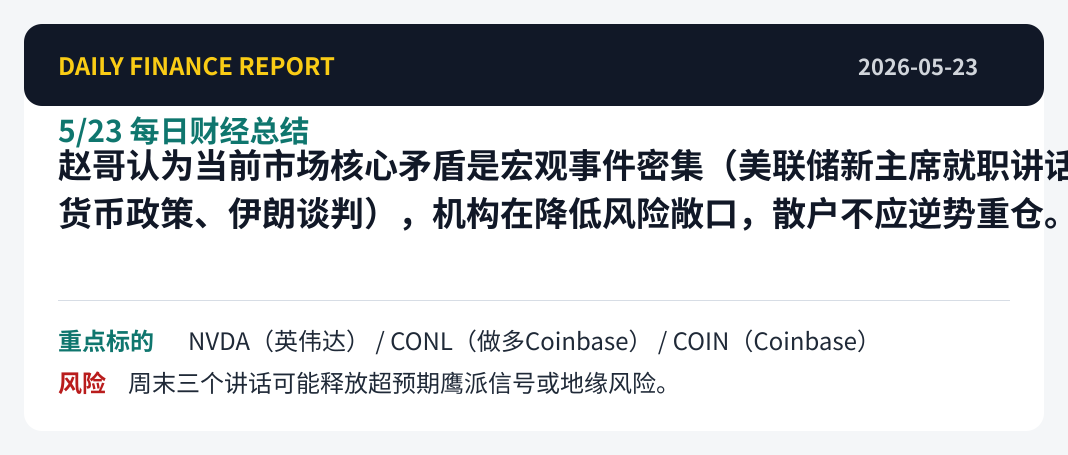
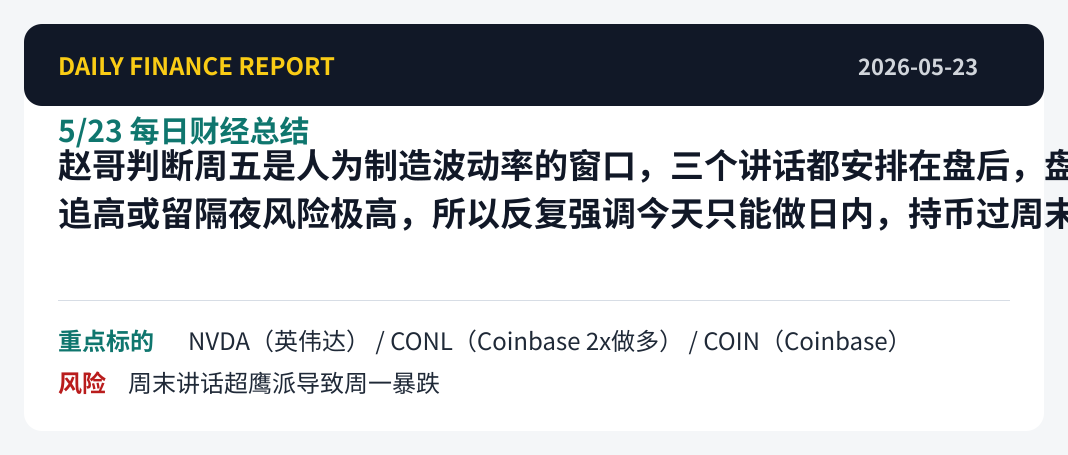
Auto daily publish: 2026-05-23 12:57:07 CST

diff --git a/docs/index.md b/docs/index.md
@@ -1,113 +1,114 @@
 # 财经聊天总结 - 每日定时总结（过去24小时）
 
-> 北京时间：2026-05-23 12:24:41 CST
+> 北京时间：2026-05-23 12:57:07 CST
 
-> 美西时间：2026-05-22 21:24:41 PST
+> 美西时间：2026-05-22 21:57:07 PST
 
-> 美东时间：2026-05-23 00:24:41 EST
+> 美东时间：2026-05-23 00:57:07 EST
 
 > 模型：deepseek-v4-flash
 
 ## 三句话总结
-- 赵哥认为，这周市场下跌是因为周末有三个重要讲话（美联储新主席沃什的货币政策倾向、周六的货币政策、周一伊朗谈判细节），大家都怕不确定性，所以提前卖出避险。
-- 昨晚确实先跌后涨，波动很大，但赵哥说现在急跌急涨会持续一段时间，周五涨跌都不能追，要等到所有讲话落地后才能判断方向。
-- 赵哥的意思是：别在周末前乱买，等周二（也就是所有讲话出完、市场消化后）再考虑低位加仓，尤其是CONL、COIN这些币相关的标的。
+- 赵哥（xiaozhaolucky）认为周末有美联储新主席沃什就职讲话、货币政策会议和伊朗谈判三个事件叠加，不确定性大，市场会人为调控波动率，所以主张持币过节、不隔夜，等周二消化消息后才考虑买入。专业术语解释：SPX=标普500指数，缺口=价格跳空后留下的未交易区间，做T=低买高卖降低成本，这里的讲话可以理解为美联储官员的公开政策表态。
+- 周五（5月22日）美股盘中波动剧烈，NVDA（英伟达）财报后连续下跌，盘中又有急涨；同时中国监管层对长桥、富途等中资券商发布新规，引发恐慌和券商开户潮。用户们大量讨论如何转开美资券商如嘉信、IB等，部分人趁机炒底富途（FUTU）赚了15-20%。
+- 赵哥明确告诉大家：今天（周五）只做日内，不要留单过周末；短线仓位出了，等周二最低点附近再考虑加仓；监管事件本质是罚款收费，有两年缓冲期不必过度恐慌，但最好开个美资券商备用。这意味着普通投资者应该空仓或极轻仓等待，不要赌周末消息，等周二明确后再动手。
 
 ## 核心结论
-- 周末多个宏观事件（美联储换帅讲话、货币政策会议、伊朗谈判）叠加，市场情绪偏谨慎，赵哥建议持币过节，等周二再操作。
-- 英伟达财报后连续调整，赵哥判断是杀call行为，周五后压力释放，但需等待低点确认。
-- 中资券商政策影响被定性为罚款而非封禁，有两年过渡期，不必恐慌，可配置美国本土券商（嘉信、盈透）作为备用。
+- 周末三个讲话（新主席就职、货币政策、伊朗谈判）叠加，市场人为调控波动率，赵哥建议持币过节、不隔夜，等周二低点再买
+- 监管事件（长桥、富途等被罚）本质是收费罚款，有两年缓冲期，不用恐慌，但应开美资券商备用
+- NVDA财报后继续杀call，预计先到110再跌100，短线已出
+- 重点关注IREN、CIFR等币圈第一梯队标的，等币市场转弯
 
 ## 市场状态判断
-- 市场处于事件密集窗口期（美联储换帅、货币政策、地缘谈判），波动率显著上升，多空博弈激烈。
-- 资金行为以避险为主，机构降低风险敞口，散户跟风难度大，短线交易窗口窄。
-- 流动性集中在宏观主题（政策、利率、地缘），而非个股基本面驱动。
+- 市场处于事件密集、人为调控波动率的状态，三个周末讲话（沃什就职、货币政策、伊朗谈判）分布在盘后和节日，增加不确定性
+- 资金环境偏向谨慎，赵哥要求持币过节、不隔夜，短线交易只做日内
+- 波动结构：急跌急涨模式将延续，几个节日临近加剧操纵性
 
 ### 核心理论
-- 赵哥框架的核心是“宏观事件主导节奏，散户应跟随时间周期而非价格运动”。
-- 他反复强调“三个讲话盘后”、“周末规避”，说明决策依据是时间点（讲话前后）而非单纯点位。
-- 操作上分两层：一是持币过节（防守），二是只有跌至周二最低附近才试错（机会）。
-- 对于标的（如CONL、COIN），他认为与币市场联动，需等币市转弯后第一梯队如IREN、CIFR先关注。
+- 周末讲话前规避不确定性：所有与讲话相关的波动都有人为调控，盘中追高或留隔夜会面临盘后消息冲击
+- 买点延迟到周二：周末消息消化后周二可能形成低点，是安全入场时机，错过比做错好
+- 监管是'养肥再杀'：A股和监管层的经典套路是默许行为、收罚款，有缓期，不必恐慌但需分散
+- 币圈联动：核心标的（IREN、CIFR）需等比特币市场转折信号才介入
 
 ### 证据链
-- 英伟达财报后连跌三天，赵哥解释为杀call，周五过掉就好了，验证了期权到期日的机械性抛压。
-- 中资券商政策：赵哥指出长桥是阿里、富途是腾讯、老虎是小米，国内资本控股，罚款是目的，历史上徐翔案例是模板。
-- 市场波动：周一周二跌是因周末慢跑式减持讲话，周五虽反弹但“涨就是英伟达财报前涨一样”暗示诱多。
-- 币市场：COIN低点186接近周二低点，赵哥说只一份如果周二有低点再加，表明当前并非重仓时机。
-- 用户对富途的操作：有人75买88出，有人等100未果，说明政策事件带来的波动有获利空间但难度大。
+- 赵哥多次强调'下周二在加'、'都是周二'，与'今天只能日内'形成对比
+- '三个讲话都是盘后'、'周末有讲话 涨的高了都会规避'直接说明风险来源
+- '不好的事情 会100的 先到110在跌100'给出了NVDA的具体路径
+- '等币市场转弯 来一次'说明时机依赖比特币走势
+- 用户对监管的恐慌和开户讨论佐证了市场情绪，但赵哥'有2年就先用着'平衡了过度担忧
 
 ### 交易框架拆解
-- **入场条件**：周二（所有讲话落地后）才是允许关注的时间点。；价格须跌至周二最低附近才考虑试错，否则观望。；币市场需出现转弯信号，第一梯队（IREN、CIFR）先关注。；日内操作仅限于盘中急跌后的反弹，且不能持仓过周末。
-- **持仓逻辑**：若已持有，短线仓位应在周五前出清。；中线仓位需等待周二低点确认后再考虑持有。；持币过节是核心，不因盘中反弹改变策略。
-- **退出条件**：若价格回升至周二最低上方，应停止买入并减仓。；出现超预期利空（如沃什鹰派讲话超预期、伊朗谈判破裂）需无条件止损。；短线止盈参考110附近（如英伟达）或10%涨幅（如富途）。
-- **仓位纪律**：当前仓位不超过3成，且以短线为主。；周二的低吸仓位控制在1-2成，若继续跌破再考虑加仓。；不追高，不重仓单一个股。
-- **风控规则**：禁止在讲话落地前开新仓。；禁止持有过周末（除非已严格止损）。；中资券商账户资金分散到美国本土券商。；不要用P图等欺诈手段开户，避免被关户。
-- **观察信号**：周六货币政策会议的具体表述（鹰鸽程度）。；周一伊朗谈判结果对油价和避险情绪的影响。；沃什盘后讲话中政策倾向（加息节奏、缩表态度）。；英伟达股价能否在105-108区间企稳，还是跌破100。；币市场（BTC）是否出现放量止跌信号。
-- **失效条件**：如果沃什讲话意外鸽派，市场可能提前反弹，则周二低点不复存在。；如果伊朗谈判达成超预期协议，油价暴跌引发风险资产全面反弹。；如果英伟达快速收复财报跌幅（>120），则杀call判断失效。；如果政策直接关闭中资券商出金通道（而非两年过渡），则恐慌加剧。
+- **入场条件**：周二出现最低点附近的价格；币圈标的需等比特币市场转弯信号；首笔只打一份，若周二有更低再加
+- **持仓逻辑**：短线已出，不持票过周末；中长线仓位需等周二低点确认后才考虑建立
+- **退出条件**：所有短线仓位在周五收盘前出清；若讲话超预期鹰派导致大跌，已空仓规避
+- **仓位纪律**：持币为主，轻仓或空仓过周末；首笔试探性仓位（一份），后续根据周二走势再加
+- **风控规则**：不隔夜，不追高，不赌周末消息；今天只做日内，时间和量能不足时不交易；避免使用中资券商大仓位，优先开美资券商
+- **观察信号**：周末沃什讲话的具体政策倾向（鹰/鸽）；周六货币政策会议结论；周一伊朗谈判细节；比特币是否出现转折信号；NVDA是否能先到110再跌100
+- **失效条件**：若周末讲话偏鸽、无意外利空，且周二不跌反涨，则框架失效；若比特币持续下跌、币圈标的无法形成底部，则回避相关标的；若监管政策突然升级（如直接禁止），则需要重新评估
 
 ## xiaozhaolucky
 ### 深度解读
-- 赵哥认为当前市场核心矛盾是宏观事件密集（美联储新主席就职讲话、货币政策、伊朗谈判），机构在降低风险敞口，散户不应逆势重仓。
-- 他强调“持币过节为主，除非跌周二最低附近”说明操作优先级是防守，只有极端低价才值得试错，普通反弹不参与。
-- “今天涨就是英伟达财报前涨一样”暗示当前反弹是诱多，缺乏持续性，应类比财报前最后的拉升然后砸盘。
-- “不好的事情 会100的 先到110在跌100”是一种周期内波动节奏：先拉高到110附近再杀到100以下，散户应避免追高。
-- 针对中资券商政策，赵哥解读为罚款逻辑而非真封禁，认为有两年过渡期可用，同时点明背后的政治动机（历史问题如徐翔）。
-- 对英伟达（NVDA）认为杀call是短期压制，周五过后压力释放，但具体介入需要等下周确认低点。
-- “三个讲话都是盘后”说明风险集中在非交易时段，所以盘中交易应以快进快出的日为主，不持仓过周末。
+- 赵哥判断周五是人为制造波动率的窗口，三个讲话都安排在盘后，盘中追高或留隔夜风险极高，所以反复强调今天只能做日内，持币过周末
+- 他反复说'下周二'才考虑买，说明他认为周末消息面消化后，周二才是安全入场点，买点需要打到周二最低附近，体现'宁愿错过不能做错'的风控思路
+- 他对监管事件的解读是'先养着收罚款'，暗示不必过度恐慌，但也要做好分散开户准备，尤其要开美资券商
+- 他关注的第一梯队是IREN、CIFR等币圈相关标的，且要求等币市场转弯再介入，说明他看重比特币走势对相关股票的联动性
+- 对NVDA的看法是财报后杀call是正常现象，周五过掉就好，但预期'先到110再跌100'，隐含短期先反弹再回调的节奏判断
+- 他认为周末讲话是'慢跑式减持'的延续，即官方通过周末释放消息来影响市场，投资者应主动规避不确定性
 
 ### 管理员重点标的
 | 标的 | 逻辑 | 触发条件 | 动作 | 风险 |
 | --- | --- | --- | --- | --- |
-| NVDA（英伟达） | 杀call调整，周五过掉好转，等周二低点 | 待确认 | 观察 | 未明确 |
-| CONL（做多Coinbase） | 周二低点附近可加仓，今天只做日内 | 待确认 | 观察 | 未明确 |
-| COIN（Coinbase） | 低点186接近周二低点，只一份，周二有低点再加 | 待确认 | 观察 | 未明确 |
-| IREN（Iris Energy） | 第一梯队关注，等币市转弯 | 待确认 | 观察 | 未明确 |
-| CIFR（Cipher Mining） | 第一梯队关注，等币市转弯 | 待确认 | 观察 | 未明确 |
-| NVDA（英伟达） | 财报后杀call是常见期权到期现象，周五即结束 | 周五收盘后或周二低点 | 暂时观望，等待周二低点 | 若突破前高则杀call无效 |
-| CONL（做多Coinbase） | 与币市场联动，等币市转弯 | 周二低点或币市转弯信号 | 下周二加仓 | 讲话不确定性导致再次下跌 |
-| COIN（Coinbase） | 接近周二低点但未完全到位 | 周二如果继续下跌 | 只一份试错 | 跌破前低则先止损 |
-| IREN（Iris Energy） | 币市企稳后优先关注 | 币市转弯 | 观察准备 | 币市持续下跌 |
-| CIFR（Cipher Mining） | 同上 | 同上 | 观察准备 | 同上 |
+| NVDA（英伟达） | 财报后杀call，短线已出，预计先到110再跌100，周五过掉风险 | 待确认 | 观察 | 未明确 |
+| CONL（Coinbase 2x做多） | 赵哥说下周二再买，今天只能日内，持币等周二低点 | 待确认 | 观察 | 未明确 |
+| COIN（Coinbase） | 赵哥回复只一份如果周二有低点再加 | 待确认 | 观察 | 未明确 |
+| IREN（Iren） | 赵哥说第一梯队也关注，等币市场转弯 | 待确认 | 观察 | 未明确 |
+| CIFR（Cipher Mining） | 赵哥说第一梯队也关注，等币市场转弯 | 待确认 | 观察 | 未明确 |
+| NVDA（英伟达） | 财报后通常杀call，周五过掉就好 | 周五收盘前出清 | 短线已出，等周二低点 | 若周末讲话鹰派可能加速下跌 |
+| CONL（Coinbase 2x做多） | 周末讲话不确定性大，今天不能留隔夜 | 周二最低点附近 | 持币等待，周二再买 | 若BTC继续下跌则可能达不到买入条件 |
+| COIN（Coinbase） | 等币市场转弯 | 周二低点+币市转弯 | 先买一份，有更低再加 | 币市持续下跌 |
+| IREN（Iren） | 与比特币联动 | 币市场转弯信号 | 关注 | 比特币走势不确定 |
+| CIFR（Cipher Mining） | 与比特币联动 | 币市场转弯信号 | 关注 | 比特币走势不确定 |
 
 ## 其他用户
 ### 用户观点提炼
-- 多数用户对中资券商政策感到恐慌，讨论开户备选（嘉信、盈立、IB），但普遍认为政策影响有限，长期仍需本土券商。
-- mrzhoulucky 表示富途、长桥、老虎分别是腾讯、阿里、小米控股，认为这是缺钱罚款的信号，并分享自己卖call、做空LITE的操作。
-- 部分用户参与短期事件（富途暴跌后反弹），有人赚15-20%止盈，也有用户犹豫不敢买。
-- 对英伟达和特斯拉有分歧：有人认为财报后持续调整，有人高抛低吸做T。
-- 关于美联储新主席Warsh，用户讨论偏鹰派，认为可能加息，但无一致结论。
+- 大量用户讨论监管新规，恐慌情绪蔓延，但多数认为有两年缓冲期、主要针对伪造文件，正常开户不用怕，推荐开嘉信、IB、盈立等美资或新加坡券商
+- 部分用户趁机炒底FUTU（富途），以75左右买入，88-94卖出，赚15-20%后止盈离场
+- 有用户指出FUTU和老虎期权出现天量看空持仓，怀疑有内幕交易，并讨论徐翔案例
+- 多位用户成功开立嘉信账户，反馈流程简单，但界面难用、有25000美元日内交易限制（即将取消）
+- 关于戴尔（DELL）暴涨15%、TSLL高开低走等标的表现，用户有讨论，但赵哥未专门点评
 
 ### 普通用户提到的标的
-- **FUTU（富途控股）**: 政策事件暴跌后反弹，用户有短炒
-- **TSLA（特斯拉）**: 高开低走，用户出清或做T
-- **DELL（戴尔）**: 用户持仓不动，涨势不错
-- **LITE（Lumentum）**: 用户做空（mrzhoulucky卖call）
-- **FUTU（富途控股）**: 用户讨论：75-88-94区间短炒，有人赚15%止盈
-- **TSLA（特斯拉）**: 高开低走，用户清仓或持有底仓，卖飞后后悔
-- **DELL（戴尔）**: 用户持有，涨势好，有人赚15%
-- **SOXS（做空半导体三倍ETF）**: 用户提及新低
-- **LITE（Lumentum）**: 用户mrzhoulucky卖call做空
+- **FUTU（富途控股）**: 用户讨论监管事件，有天量看空期权，部分用户75买入88-94止盈
+- **TSLA（特斯拉）**: 用户讨论TSLL高开低走，部分人卖飞
+- **DELL（戴尔）**: 用户提到暴涨15个点
+- **LITE（Lumentum）**: 用户提到做空LITE（做空老馒头）
+- **FUTU（富途控股）**: 监管事件核心标的，用户讨论内幕期权，部分人75买入88-94止盈，也有用户未出等100
+- **TSLA（特斯拉）**: 用户讨论TSLL高开低走，15.19卖出，16.15清仓等
+- **DELL（戴尔）**: 用户提到暴涨15个点，股价135
+- **SOXS（半导体3x做空）**: 有新低，用户讨论
+- **HOOD（Robinhood）**: 用户讨论股价73.18
+- **BBAE（BBAE）**: 用户讨论开户，入金麻烦
+- **AMD（超微半导体）**: 用户说像疯狗一样涨
 
 ## 市场主线
-- 宏观事件驱动：美联储新主席Warsh就职讲话+货币政策会议+伊朗谈判，不确定性高，市场以规避风险为主。
-- 指数层面：纳指盘中反弹但缺乏持续性，急跌急涨特征明显，量能不足以支撑趋势。
-- 板块分化：科技股（NVDA）财报后杀call，半导体（AMD）走弱；中概券商（FUTU）受政策消息暴跌后反弹，但短期波动剧烈。
+- 周五美股波动加剧，NVDA财报后连跌，盘中急涨急跌，受周末美联储新主席就职、货币政策及伊朗谈判多重事件影响
+- 币圈相关标的（CONL、COIN）波动较大，BTC出现预警信号，赵哥提醒等待币市场转弯
+- 中国监管新规冲击中资券商股（FUTU先跌后涨），市场预期罚款为主，有两年缓冲期
+- 亚洲市场当日反弹，但赵哥指出'今天亚洲反弹肯定要杀下'，暗示风险
 
 ## 期权与交易策略
-- mrzhoulucky 卖call LITE
-- 用户提到FUTU的期权实仓（call vs put数量）
+- 暂无明确记录。
 
 ## 事件与关键日期
-- 2026-05-22 晚 美联储新主席沃什就职典礼并盘后讲话
-- 2026-05-23 周六 美国货币政策会议
-- 2026-05-25 周一 美国阵亡将士纪念日，伊朗谈判细节公布
-- 2026-05-26 周二 管理员说的可操作时间点
-- 2026-06-04 嘉信取消25000美元日内交易限制
+- 5月22日（周五）美联储新主席沃什就职讲话（盘后）
+- 5月23日（周六）美联储货币政策会议
+- 5月25日（周一）美国节日，伊朗谈判细节讲话
+- 5月22日 中国监管层对长桥、富途、老虎等中资券商发布新规（限期整改/罚款）
+- 5月22日 NVDA财报后第三日，继续杀call
 
 ## 风险与观察点
-- 周末三个讲话可能释放超预期鹰派信号或地缘风险。
-- 若英伟达跌破100关口，则杀call后的支撑失效。
-- 中资券商政策可能在两年内升级为真正限制，需提前布局嘉信、IB等。
-- 日内追高容易被套，必须遵守持币过节纪律。
-- P图开户面临关户和法律风险。
+- 周末讲话超鹰派导致周一暴跌
+- 监管政策进一步升级，限制港卡入金或波及美资券商
+- 比特币持续下跌，币圈标的跌破关键支撑
+- NVDA未能守住100，加速下跌
 

diff --git a/docs/summaries/2026-05/2026-05-23-每日总结.md b/docs/summaries/2026-05/2026-05-23-每日总结.md
@@ -1,110 +1,111 @@
-# 2026-05-23 12:24:41 CST 总结 - 每日定时总结（过去24小时）
+# 2026-05-23 12:57:07 CST 总结 - 每日定时总结（过去24小时）
 
-> 美西时间：2026-05-22 21:24:41 PST
+> 美西时间：2026-05-22 21:57:07 PST
 
-> 美东时间：2026-05-23 00:24:41 EST
+> 美东时间：2026-05-23 00:57:07 EST
 
 > 模型：deepseek-v4-flash
 
 ## 三句话总结
-- 赵哥认为，这周市场下跌是因为周末有三个重要讲话（美联储新主席沃什的货币政策倾向、周六的货币政策、周一伊朗谈判细节），大家都怕不确定性，所以提前卖出避险。
-- 昨晚确实先跌后涨，波动很大，但赵哥说现在急跌急涨会持续一段时间，周五涨跌都不能追，要等到所有讲话落地后才能判断方向。
-- 赵哥的意思是：别在周末前乱买，等周二（也就是所有讲话出完、市场消化后）再考虑低位加仓，尤其是CONL、COIN这些币相关的标的。
+- 赵哥（xiaozhaolucky）认为周末有美联储新主席沃什就职讲话、货币政策会议和伊朗谈判三个事件叠加，不确定性大，市场会人为调控波动率，所以主张持币过节、不隔夜，等周二消化消息后才考虑买入。专业术语解释：SPX=标普500指数，缺口=价格跳空后留下的未交易区间，做T=低买高卖降低成本，这里的讲话可以理解为美联储官员的公开政策表态。
+- 周五（5月22日）美股盘中波动剧烈，NVDA（英伟达）财报后连续下跌，盘中又有急涨；同时中国监管层对长桥、富途等中资券商发布新规，引发恐慌和券商开户潮。用户们大量讨论如何转开美资券商如嘉信、IB等，部分人趁机炒底富途（FUTU）赚了15-20%。
+- 赵哥明确告诉大家：今天（周五）只做日内，不要留单过周末；短线仓位出了，等周二最低点附近再考虑加仓；监管事件本质是罚款收费，有两年缓冲期不必过度恐慌，但最好开个美资券商备用。这意味着普通投资者应该空仓或极轻仓等待，不要赌周末消息，等周二明确后再动手。
 
 ## 核心结论
-- 周末多个宏观事件（美联储换帅讲话、货币政策会议、伊朗谈判）叠加，市场情绪偏谨慎，赵哥建议持币过节，等周二再操作。
-- 英伟达财报后连续调整，赵哥判断是杀call行为，周五后压力释放，但需等待低点确认。
-- 中资券商政策影响被定性为罚款而非封禁，有两年过渡期，不必恐慌，可配置美国本土券商（嘉信、盈透）作为备用。
+- 周末三个讲话（新主席就职、货币政策、伊朗谈判）叠加，市场人为调控波动率，赵哥建议持币过节、不隔夜，等周二低点再买
+- 监管事件（长桥、富途等被罚）本质是收费罚款，有两年缓冲期，不用恐慌，但应开美资券商备用
+- NVDA财报后继续杀call，预计先到110再跌100，短线已出
+- 重点关注IREN、CIFR等币圈第一梯队标的，等币市场转弯
 
 ## 市场状态判断
-- 市场处于事件密集窗口期（美联储换帅、货币政策、地缘谈判），波动率显著上升，多空博弈激烈。
-- 资金行为以避险为主，机构降低风险敞口，散户跟风难度大，短线交易窗口窄。
-- 流动性集中在宏观主题（政策、利率、地缘），而非个股基本面驱动。
+- 市场处于事件密集、人为调控波动率的状态，三个周末讲话（沃什就职、货币政策、伊朗谈判）分布在盘后和节日，增加不确定性
+- 资金环境偏向谨慎，赵哥要求持币过节、不隔夜，短线交易只做日内
+- 波动结构：急跌急涨模式将延续，几个节日临近加剧操纵性
 
 ### 核心理论
-- 赵哥框架的核心是“宏观事件主导节奏，散户应跟随时间周期而非价格运动”。
-- 他反复强调“三个讲话盘后”、“周末规避”，说明决策依据是时间点（讲话前后）而非单纯点位。
-- 操作上分两层：一是持币过节（防守），二是只有跌至周二最低附近才试错（机会）。
-- 对于标的（如CONL、COIN），他认为与币市场联动，需等币市转弯后第一梯队如IREN、CIFR先关注。
+- 周末讲话前规避不确定性：所有与讲话相关的波动都有人为调控，盘中追高或留隔夜会面临盘后消息冲击
+- 买点延迟到周二：周末消息消化后周二可能形成低点，是安全入场时机，错过比做错好
+- 监管是'养肥再杀'：A股和监管层的经典套路是默许行为、收罚款，有缓期，不必恐慌但需分散
+- 币圈联动：核心标的（IREN、CIFR）需等比特币市场转折信号才介入
 
 ### 证据链
-- 英伟达财报后连跌三天，赵哥解释为杀call，周五过掉就好了，验证了期权到期日的机械性抛压。
-- 中资券商政策：赵哥指出长桥是阿里、富途是腾讯、老虎是小米，国内资本控股，罚款是目的，历史上徐翔案例是模板。
-- 市场波动：周一周二跌是因周末慢跑式减持讲话，周五虽反弹但“涨就是英伟达财报前涨一样”暗示诱多。
-- 币市场：COIN低点186接近周二低点，赵哥说只一份如果周二有低点再加，表明当前并非重仓时机。
-- 用户对富途的操作：有人75买88出，有人等100未果，说明政策事件带来的波动有获利空间但难度大。
+- 赵哥多次强调'下周二在加'、'都是周二'，与'今天只能日内'形成对比
+- '三个讲话都是盘后'、'周末有讲话 涨的高了都会规避'直接说明风险来源
+- '不好的事情 会100的 先到110在跌100'给出了NVDA的具体路径
+- '等币市场转弯 来一次'说明时机依赖比特币走势
+- 用户对监管的恐慌和开户讨论佐证了市场情绪，但赵哥'有2年就先用着'平衡了过度担忧
 
 ### 交易框架拆解
-- **入场条件**：周二（所有讲话落地后）才是允许关注的时间点。；价格须跌至周二最低附近才考虑试错，否则观望。；币市场需出现转弯信号，第一梯队（IREN、CIFR）先关注。；日内操作仅限于盘中急跌后的反弹，且不能持仓过周末。
-- **持仓逻辑**：若已持有，短线仓位应在周五前出清。；中线仓位需等待周二低点确认后再考虑持有。；持币过节是核心，不因盘中反弹改变策略。
-- **退出条件**：若价格回升至周二最低上方，应停止买入并减仓。；出现超预期利空（如沃什鹰派讲话超预期、伊朗谈判破裂）需无条件止损。；短线止盈参考110附近（如英伟达）或10%涨幅（如富途）。
-- **仓位纪律**：当前仓位不超过3成，且以短线为主。；周二的低吸仓位控制在1-2成，若继续跌破再考虑加仓。；不追高，不重仓单一个股。
-- **风控规则**：禁止在讲话落地前开新仓。；禁止持有过周末（除非已严格止损）。；中资券商账户资金分散到美国本土券商。；不要用P图等欺诈手段开户，避免被关户。
-- **观察信号**：周六货币政策会议的具体表述（鹰鸽程度）。；周一伊朗谈判结果对油价和避险情绪的影响。；沃什盘后讲话中政策倾向（加息节奏、缩表态度）。；英伟达股价能否在105-108区间企稳，还是跌破100。；币市场（BTC）是否出现放量止跌信号。
-- **失效条件**：如果沃什讲话意外鸽派，市场可能提前反弹，则周二低点不复存在。；如果伊朗谈判达成超预期协议，油价暴跌引发风险资产全面反弹。；如果英伟达快速收复财报跌幅（>120），则杀call判断失效。；如果政策直接关闭中资券商出金通道（而非两年过渡），则恐慌加剧。
+- **入场条件**：周二出现最低点附近的价格；币圈标的需等比特币市场转弯信号；首笔只打一份，若周二有更低再加
+- **持仓逻辑**：短线已出，不持票过周末；中长线仓位需等周二低点确认后才考虑建立
+- **退出条件**：所有短线仓位在周五收盘前出清；若讲话超预期鹰派导致大跌，已空仓规避
+- **仓位纪律**：持币为主，轻仓或空仓过周末；首笔试探性仓位（一份），后续根据周二走势再加
+- **风控规则**：不隔夜，不追高，不赌周末消息；今天只做日内，时间和量能不足时不交易；避免使用中资券商大仓位，优先开美资券商
+- **观察信号**：周末沃什讲话的具体政策倾向（鹰/鸽）；周六货币政策会议结论；周一伊朗谈判细节；比特币是否出现转折信号；NVDA是否能先到110再跌100
+- **失效条件**：若周末讲话偏鸽、无意外利空，且周二不跌反涨，则框架失效；若比特币持续下跌、币圈标的无法形成底部，则回避相关标的；若监管政策突然升级（如直接禁止），则需要重新评估
 
 ## xiaozhaolucky
 ### 深度解读
-- 赵哥认为当前市场核心矛盾是宏观事件密集（美联储新主席就职讲话、货币政策、伊朗谈判），机构在降低风险敞口，散户不应逆势重仓。
-- 他强调“持币过节为主，除非跌周二最低附近”说明操作优先级是防守，只有极端低价才值得试错，普通反弹不参与。
-- “今天涨就是英伟达财报前涨一样”暗示当前反弹是诱多，缺乏持续性，应类比财报前最后的拉升然后砸盘。
-- “不好的事情 会100的 先到110在跌100”是一种周期内波动节奏：先拉高到110附近再杀到100以下，散户应避免追高。
-- 针对中资券商政策，赵哥解读为罚款逻辑而非真封禁，认为有两年过渡期可用，同时点明背后的政治动机（历史问题如徐翔）。
-- 对英伟达（NVDA）认为杀call是短期压制，周五过后压力释放，但具体介入需要等下周确认低点。
-- “三个讲话都是盘后”说明风险集中在非交易时段，所以盘中交易应以快进快出的日为主，不持仓过周末。
+- 赵哥判断周五是人为制造波动率的窗口，三个讲话都安排在盘后，盘中追高或留隔夜风险极高，所以反复强调今天只能做日内，持币过周末
+- 他反复说'下周二'才考虑买，说明他认为周末消息面消化后，周二才是安全入场点，买点需要打到周二最低附近，体现'宁愿错过不能做错'的风控思路
+- 他对监管事件的解读是'先养着收罚款'，暗示不必过度恐慌，但也要做好分散开户准备，尤其要开美资券商
+- 他关注的第一梯队是IREN、CIFR等币圈相关标的，且要求等币市场转弯再介入，说明他看重比特币走势对相关股票的联动性
+- 对NVDA的看法是财报后杀call是正常现象，周五过掉就好，但预期'先到110再跌100'，隐含短期先反弹再回调的节奏判断
+- 他认为周末讲话是'慢跑式减持'的延续，即官方通过周末释放消息来影响市场，投资者应主动规避不确定性
 
 ### 管理员重点标的
 | 标的 | 逻辑 | 触发条件 | 动作 | 风险 |
 | --- | --- | --- | --- | --- |
-| NVDA（英伟达） | 杀call调整，周五过掉好转，等周二低点 | 待确认 | 观察 | 未明确 |
-| CONL（做多Coinbase） | 周二低点附近可加仓，今天只做日内 | 待确认 | 观察 | 未明确 |
-| COIN（Coinbase） | 低点186接近周二低点，只一份，周二有低点再加 | 待确认 | 观察 | 未明确 |
-| IREN（Iris Energy） | 第一梯队关注，等币市转弯 | 待确认 | 观察 | 未明确 |
-| CIFR（Cipher Mining） | 第一梯队关注，等币市转弯 | 待确认 | 观察 | 未明确 |
-| NVDA（英伟达） | 财报后杀call是常见期权到期现象，周五即结束 | 周五收盘后或周二低点 | 暂时观望，等待周二低点 | 若突破前高则杀call无效 |
-| CONL（做多Coinbase） | 与币市场联动，等币市转弯 | 周二低点或币市转弯信号 | 下周二加仓 | 讲话不确定性导致再次下跌 |
-| COIN（Coinbase） | 接近周二低点但未完全到位 | 周二如果继续下跌 | 只一份试错 | 跌破前低则先止损 |
-| IREN（Iris Energy） | 币市企稳后优先关注 | 币市转弯 | 观察准备 | 币市持续下跌 |
-| CIFR（Cipher Mining） | 同上 | 同上 | 观察准备 | 同上 |
+| NVDA（英伟达） | 财报后杀call，短线已出，预计先到110再跌100，周五过掉风险 | 待确认 | 观察 | 未明确 |
+| CONL（Coinbase 2x做多） | 赵哥说下周二再买，今天只能日内，持币等周二低点 | 待确认 | 观察 | 未明确 |
+| COIN（Coinbase） | 赵哥回复只一份如果周二有低点再加 | 待确认 | 观察 | 未明确 |
+| IREN（Iren） | 赵哥说第一梯队也关注，等币市场转弯 | 待确认 | 观察 | 未明确 |
+| CIFR（Cipher Mining） | 赵哥说第一梯队也关注，等币市场转弯 | 待确认 | 观察 | 未明确 |
+| NVDA（英伟达） | 财报后通常杀call，周五过掉就好 | 周五收盘前出清 | 短线已出，等周二低点 | 若周末讲话鹰派可能加速下跌 |
+| CONL（Coinbase 2x做多） | 周末讲话不确定性大，今天不能留隔夜 | 周二最低点附近 | 持币等待，周二再买 | 若BTC继续下跌则可能达不到买入条件 |
+| COIN（Coinbase） | 等币市场转弯 | 周二低点+币市转弯 | 先买一份，有更低再加 | 币市持续下跌 |
+| IREN（Iren） | 与比特币联动 | 币市场转弯信号 | 关注 | 比特币走势不确定 |
+| CIFR（Cipher Mining） | 与比特币联动 | 币市场转弯信号 | 关注 | 比特币走势不确定 |
 
 ## 其他用户
 ### 用户观点提炼
-- 多数用户对中资券商政策感到恐慌，讨论开户备选（嘉信、盈立、IB），但普遍认为政策影响有限，长期仍需本土券商。
-- mrzhoulucky 表示富途、长桥、老虎分别是腾讯、阿里、小米控股，认为这是缺钱罚款的信号，并分享自己卖call、做空LITE的操作。
-- 部分用户参与短期事件（富途暴跌后反弹），有人赚15-20%止盈，也有用户犹豫不敢买。
-- 对英伟达和特斯拉有分歧：有人认为财报后持续调整，有人高抛低吸做T。
-- 关于美联储新主席Warsh，用户讨论偏鹰派，认为可能加息，但无一致结论。
+- 大量用户讨论监管新规，恐慌情绪蔓延，但多数认为有两年缓冲期、主要针对伪造文件，正常开户不用怕，推荐开嘉信、IB、盈立等美资或新加坡券商
+- 部分用户趁机炒底FUTU（富途），以75左右买入，88-94卖出，赚15-20%后止盈离场
+- 有用户指出FUTU和老虎期权出现天量看空持仓，怀疑有内幕交易，并讨论徐翔案例
+- 多位用户成功开立嘉信账户，反馈流程简单，但界面难用、有25000美元日内交易限制（即将取消）
+- 关于戴尔（DELL）暴涨15%、TSLL高开低走等标的表现，用户有讨论，但赵哥未专门点评
 
 ### 普通用户提到的标的
-- **FUTU（富途控股）**: 政策事件暴跌后反弹，用户有短炒
-- **TSLA（特斯拉）**: 高开低走，用户出清或做T
-- **DELL（戴尔）**: 用户持仓不动，涨势不错
-- **LITE（Lumentum）**: 用户做空（mrzhoulucky卖call）
-- **FUTU（富途控股）**: 用户讨论：75-88-94区间短炒，有人赚15%止盈
-- **TSLA（特斯拉）**: 高开低走，用户清仓或持有底仓，卖飞后后悔
-- **DELL（戴尔）**: 用户持有，涨势好，有人赚15%
-- **SOXS（做空半导体三倍ETF）**: 用户提及新低
-- **LITE（Lumentum）**: 用户mrzhoulucky卖call做空
+- **FUTU（富途控股）**: 用户讨论监管事件，有天量看空期权，部分用户75买入88-94止盈
+- **TSLA（特斯拉）**: 用户讨论TSLL高开低走，部分人卖飞
+- **DELL（戴尔）**: 用户提到暴涨15个点
+- **LITE（Lumentum）**: 用户提到做空LITE（做空老馒头）
+- **FUTU（富途控股）**: 监管事件核心标的，用户讨论内幕期权，部分人75买入88-94止盈，也有用户未出等100
+- **TSLA（特斯拉）**: 用户讨论TSLL高开低走，15.19卖出，16.15清仓等
+- **DELL（戴尔）**: 用户提到暴涨15个点，股价135
+- **SOXS（半导体3x做空）**: 有新低，用户讨论
+- **HOOD（Robinhood）**: 用户讨论股价73.18
+- **BBAE（BBAE）**: 用户讨论开户，入金麻烦
+- **AMD（超微半导体）**: 用户说像疯狗一样涨
 
 ## 市场主线
-- 宏观事件驱动：美联储新主席Warsh就职讲话+货币政策会议+伊朗谈判，不确定性高，市场以规避风险为主。
-- 指数层面：纳指盘中反弹但缺乏持续性，急跌急涨特征明显，量能不足以支撑趋势。
-- 板块分化：科技股（NVDA）财报后杀call，半导体（AMD）走弱；中概券商（FUTU）受政策消息暴跌后反弹，但短期波动剧烈。
+- 周五美股波动加剧，NVDA财报后连跌，盘中急涨急跌，受周末美联储新主席就职、货币政策及伊朗谈判多重事件影响
+- 币圈相关标的（CONL、COIN）波动较大，BTC出现预警信号，赵哥提醒等待币市场转弯
+- 中国监管新规冲击中资券商股（FUTU先跌后涨），市场预期罚款为主，有两年缓冲期
+- 亚洲市场当日反弹，但赵哥指出'今天亚洲反弹肯定要杀下'，暗示风险
 
 ## 期权与交易策略
-- mrzhoulucky 卖call LITE
-- 用户提到FUTU的期权实仓（call vs put数量）
+- 暂无明确记录。
 
 ## 事件与关键日期
-- 2026-05-22 晚 美联储新主席沃什就职典礼并盘后讲话
-- 2026-05-23 周六 美国货币政策会议
-- 2026-05-25 周一 美国阵亡将士纪念日，伊朗谈判细节公布
-- 2026-05-26 周二 管理员说的可操作时间点
-- 2026-06-04 嘉信取消25000美元日内交易限制
+- 5月22日（周五）美联储新主席沃什就职讲话（盘后）
+- 5月23日（周六）美联储货币政策会议
+- 5月25日（周一）美国节日，伊朗谈判细节讲话
+- 5月22日 中国监管层对长桥、富途、老虎等中资券商发布新规（限期整改/罚款）
+- 5月22日 NVDA财报后第三日，继续杀call
 
 ## 风险与观察点
-- 周末三个讲话可能释放超预期鹰派信号或地缘风险。
-- 若英伟达跌破100关口，则杀call后的支撑失效。
-- 中资券商政策可能在两年内升级为真正限制，需提前布局嘉信、IB等。
-- 日内追高容易被套，必须遵守持币过节纪律。
-- P图开户面临关户和法律风险。
+- 周末讲话超鹰派导致周一暴跌
+- 监管政策进一步升级，限制港卡入金或波及美资券商
+- 比特币持续下跌，币圈标的跌破关键支撑
+- NVDA未能守住100，加速下跌
